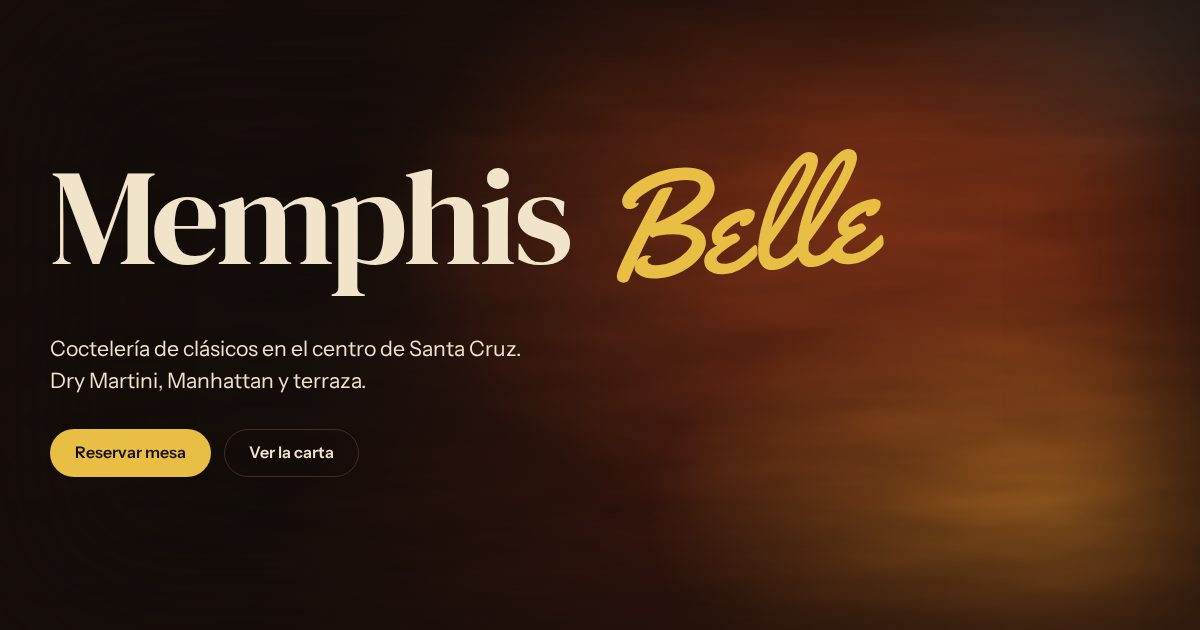
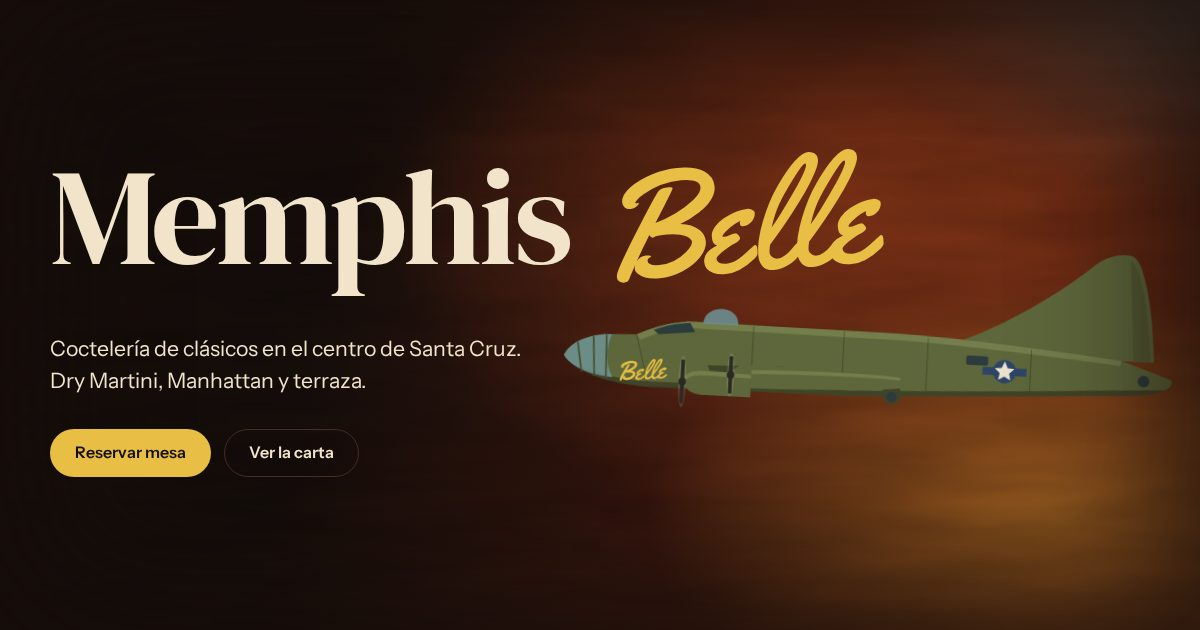
Bombardero B-17 animado en el fondo de la portada
Ilustración propia en SVG de un B-17 verde oliva, como el del mural, con
"Belle" en el morro (el mismo trazado que el logotipo), volando por el
cielo marrón de la portada. Las hélices giran (180 ms, linear) y el avión
flota despacio (7 s, curva senoidal); solo transform, en animaciones CSS.
Con "reducir movimiento" queda quieto. En el móvil vuela por debajo de los
botones para no tapar el texto.

Claude-Session: https://claude.ai/code/session_015FWVJHTK1DFuU4oBGvgKEP

Changed region(s): [[0.4625, 0.3921, 0.9867, 0.6333]]

diff --git a/src/views/bombardero.js b/src/views/bombardero.js
@@ -1,0 +1,77 @@
+import { readFileSync } from 'node:fs';
+
+// Ilustración del bombardero (un B-17 de los años 40, como el del mural del local) para el fondo de la
+// portada. Dibujo propio en SVG, de perfil y mirando hacia el texto. Va en línea en el HTML para que
+// el CSS pueda animar las hélices y el vuelo (public/css/site.css → "Bombardero").
+// El nombre del morro es el mismo trazado que el logotipo (public/img/logo-belle.svg).
+
+const logo = readFileSync(new URL('../../public/img/logo-belle.svg', import.meta.url), 'utf8');
+const [, logoX, logoY, logoW] = /viewBox="(-?\d+) (-?\d+) (\d+) (\d+)"/.exec(logo).map(Number);
+const logoPath = /<path[^>]* d="([^"]+)"/.exec(logo)[1];
+const BELLE_ANCHO = 74; // ancho del nombre pintado en el morro
+const belleEscala = BELLE_ANCHO / logoW;
+
+// Hélice vista de canto: un disco translúcido y dos palas que "giran" (ver .pala en el CSS).
+const helice = (x, y, r) => `<g class="helice" transform="translate(${x} ${y})">
+      <ellipse class="helice-disco" rx="6" ry="${r}"/>
+      <rect class="pala" x="-2.5" y="${-r}" width="5" height="${r * 2}" rx="2.5"/>
+      <rect class="pala pala-2" x="-2.5" y="${-r}" width="5" height="${r * 2}" rx="2.5"/>
+      <circle class="buje" r="6"/>
+    </g>`;
+
+export const BOMBARDERO = `<div class="bombardero" aria-hidden="true">
+  <svg class="bombardero-svg" viewBox="0 0 1000 420" focusable="false">
+    <g class="bombardero-vuelo">
+      <!-- Estabilizador horizontal y ala del lado lejano, más oscuros -->
+      <path class="oliva-sombra" d="M808 226 L972 222 L976 236 L820 244 Z"/>
+      <path class="oliva-sombra" d="M372 226 L512 222 L520 232 L380 236 Z"/>
+
+      <!-- Deriva (cola alta del B-17) -->
+      <path class="oliva" d="M640 182 C720 150 800 96 852 50 C872 33 900 28 912 36 C926 46 938 96 944 140 L950 196 L700 198 Z"/>
+      <path class="timon" d="M906 40 C920 50 932 98 938 142 L944 196 L918 196 L912 120 Z"/>
+
+      <!-- Fuselaje -->
+      <path class="oliva" d="M40 232 C46 214 70 200 104 196 L150 194 C170 184 196 174 228 170 L560 172 C640 174 760 182 900 196 L978 222 C980 230 976 236 966 238 L900 242 C760 250 620 258 480 264 L170 266 C110 266 60 258 40 232 Z"/>
+      <!-- Luz de arriba y sombra de abajo -->
+      <path class="oliva-luz" d="M150 194 C170 184 196 174 228 170 L560 172 C640 174 760 182 900 196 L898 204 C760 192 640 184 560 182 L232 180 C200 184 176 192 156 202 Z"/>
+      <path class="oliva-sombra" d="M60 248 C110 262 150 266 170 266 L480 264 C620 258 760 250 900 242 L966 238 C960 246 930 248 900 250 C760 258 620 266 480 272 L170 274 C120 272 80 262 60 248 Z"/>
+
+      <!-- Morro acristalado y cabina -->
+      <path class="cristal" d="M40 232 C46 214 70 200 104 196 L112 196 C104 214 104 244 116 262 C80 260 52 250 40 232 Z"/>
+      <path class="marco" d="M60 210 L68 256 M84 200 L88 262 M104 196 L106 264"/>
+      <path class="cristal-oscuro" d="M176 186 C192 178 212 174 232 172 L240 186 L184 192 Z"/>
+      <path class="cristal" d="M252 172 C252 156 266 148 280 148 C294 148 306 156 306 172 Z"/>
+      <rect class="cristal-oscuro" x="660" y="200" width="34" height="14" rx="3"/>
+      <circle class="cristal-oscuro" cx="935" cy="226" r="9"/>
+
+      <!-- Líneas de paneles -->
+      <path class="paneles" d="M330 172 L330 266 M470 172 L470 264 M600 176 L600 258 M760 186 L760 250 M150 194 L170 266"/>
+
+      <!-- Torreta inferior -->
+      <circle class="oliva-sombra" cx="548" cy="266" r="15"/>
+      <circle class="cristal-oscuro" cx="548" cy="270" r="8"/>
+
+      <!-- Insignia de la época: estrella blanca sobre círculo azul, con barras -->
+      <g transform="translate(720 222)">
+        <rect class="insignia-barra" x="-34" y="-6" width="68" height="12"/>
+        <circle class="insignia-azul" r="18"/>
+        <path class="insignia-blanca" d="M0 -16 L4.7 -5.5 L15.2 -4.9 L7.3 2.4 L9.4 13 L0 7.4 L-9.4 13 L-7.3 2.4 L-15.2 -4.9 L-4.7 -5.5 Z"/>
+      </g>
+
+      <!-- "Belle" pintado en el morro -->
+      <g transform="translate(124 236) rotate(-6) scale(${belleEscala.toFixed(5)}) translate(${-logoX} ${-logoY})">
+        <path class="belle-morro" d="${logoPath}"/>
+      </g>
+
+      <!-- Motores y ala del lado cercano -->
+      <path class="oliva-sombra" d="M262 236 L380 232 L384 252 L270 256 Z"/>
+      <path class="oliva" d="M300 248 C300 238 312 232 326 232 L392 232 L392 266 L326 266 C312 266 300 260 300 248 Z"/>
+      <path class="oliva" d="M226 262 C226 250 240 244 256 244 L330 246 L330 282 L256 282 C240 282 226 274 226 262 Z"/>
+      <path class="oliva-luz" d="M228 256 C232 248 242 245 256 245 L330 247 L330 253 L256 252 C244 252 236 254 230 260 Z"/>
+      <path class="oliva" d="M330 240 C420 236 520 236 560 240 L560 256 C520 262 420 266 330 268 Z"/>
+      <path class="oliva-luz" d="M330 240 C420 236 520 236 560 240 L560 244 C520 242 420 242 330 246 Z"/>
+      ${helice(298, 249, 34)}
+      ${helice(224, 263, 40)}
+    </g>
+  </svg>
+</div>`;

diff --git a/public/css/site.css b/public/css/site.css
@@ -159,6 +159,54 @@ ul { margin: 0; padding: 0; list-style: none; }
   content: ""; position: absolute; inset: 0; z-index: -1; pointer-events: none;
   box-shadow: inset 0 0 140px 30px rgba(22, 14, 11, .85);
 }
+/* ---------- Bombardero: ilustración de fondo de la portada (src/views/bombardero.js) ----------
+   Movimiento decorativo, visto una vez por visita: las hélices giran (movimiento constante: linear) y
+   el avión flota despacio (ida y vuelta: curva senoidal de easings.co). Solo transform, en animaciones
+   CSS que van fuera del hilo principal. Con "reducir movimiento", el avión queda quieto. */
+.bombardero {
+  position: absolute; z-index: -1; pointer-events: none;
+  right: 1%; top: 56%; width: min(54vw, 760px);
+  transform: translateY(-50%);
+}
+.bombardero-svg { width: 100%; height: auto; overflow: visible; }
+.bombardero-vuelo { transform-box: fill-box; transform-origin: 50% 50%; }
+/* Colores del mural: verde oliva del fuselaje, cristales del azul del motor, nombre en amarillo.
+   Algo apagados para que el avión se funda con el cielo marrón y no compita con el título. */
+.bombardero .oliva { fill: #5E673B; }
+.bombardero .oliva-luz { fill: #747D4C; }
+.bombardero .oliva-sombra { fill: #3F4428; }
+.bombardero .timon { fill: #545C34; }
+.bombardero .cristal { fill: #6F9396; opacity: .85; }
+.bombardero .cristal-oscuro { fill: #2C3B3D; }
+.bombardero .marco { fill: none; stroke: #454B2B; stroke-width: 2.5; }
+.bombardero .paneles { fill: none; stroke: rgba(30, 24, 14, .35); stroke-width: 1.5; }
+.bombardero .insignia-azul, .bombardero .insignia-barra { fill: #2F4566; }
+.bombardero .insignia-blanca { fill: #E9E2D0; }
+.bombardero .belle-morro { fill: var(--mostaza); }
+.bombardero .helice-disco { fill: rgba(233, 226, 208, .14); }
+.bombardero .pala { fill: #2A2A22; transform-box: fill-box; transform-origin: 50% 50%; }
+.bombardero .pala-2 { opacity: .6; }
+.bombardero .buje { fill: #2A2A22; }
+@media (prefers-reduced-motion: no-preference) {
+  .bombardero-vuelo { animation: flotar 7s cubic-bezier(0.37, 0, 0.63, 1) infinite alternate; }
+  .bombardero .pala { animation: girar 180ms linear infinite; }
+  .bombardero .pala-2 { animation-delay: -90ms; }
+  @keyframes flotar {
+    from { transform: translate(0, 6px) rotate(3deg); }
+    to { transform: translate(-14px, -8px) rotate(4.5deg); }
+  }
+  /* Una pala vista de canto: al girar, su altura aparente va de entera a nada y vuelta. */
+  @keyframes girar {
+    0% { transform: scaleY(1); }
+    50% { transform: scaleY(-1); }
+    100% { transform: scaleY(1); }
+  }
+}
+@media (prefers-reduced-motion: reduce) {
+  .bombardero-vuelo { transform: rotate(3.5deg); }
+  .bombardero .pala-2 { display: none; }
+}
+
 .hero-titulo {
   font-family: var(--serif);
   font-size: clamp(3.6rem, 13vw, 8.5rem);
@@ -327,7 +375,9 @@ footer a { text-decoration: none; transition: color .15s ease; }
   section { padding: 4rem 0; }
   .nav ul, .btn-nav { display: none; } /* reservar y llamar van en la barra fija de abajo */
   .hero { min-height: auto; padding: 4rem 0 4.5rem; }
-  .hero { background-position: 0 0, 0 0, 0 0, 0 0; }
+  .hero { padding-bottom: 13rem; }
+  /* En el móvil, el avión vuela por debajo de los botones, sin tapar el texto. */
+  .bombardero { top: auto; bottom: 1.5rem; right: -45%; width: 120vw; transform: none; }
   .barra-movil {
     display: grid; grid-template-columns: 1fr 1.6fr; gap: .6rem;
     position: fixed; inset: auto 0 0 0; z-index: 10;

diff --git a/test/static.test.js b/test/static.test.js
@@ -211,6 +211,17 @@ describe('portada y móvil', () => {
     assert.match(css, /env\(safe-area-inset-bottom/);
   });
 
+  test('el bombardero de la portada es decorativo y solo se mueve si el sistema lo permite', () => {
+    const hero = index.slice(index.indexOf('id="inicio"'), index.indexOf('id="estrella"'));
+    assert.match(hero, /<div class="bombardero" aria-hidden="true">/);
+    assert.match(hero, /class="belle-morro"/); // el nombre del morro es el logotipo
+    const animaciones = /@media \(prefers-reduced-motion: no-preference\) \{\s*\.bombardero-vuelo \{ animation: flotar/;
+    assert.match(css, animaciones);
+    // Fuera de ese bloque no hay ninguna animación del avión.
+    const fuera = css.replace(/@media \(prefers-reduced-motion: no-preference\) \{[\s\S]*?\n\}/g, '');
+    assert.doesNotMatch(fuera, /animation: (flotar|girar)/);
+  });
+
   test('las animaciones respetan "reducir movimiento" y no se usa transition: all', () => {
     assert.match(css, /@media \(prefers-reduced-motion: no-preference\) \{\s*\.hero/);
     assert.doesNotMatch(css, /transition:\s*all/);

diff --git a/src/views/landing.js b/src/views/landing.js
@@ -1,4 +1,5 @@
 import { DIAS, NOMBRES } from '../../public/js/horario.js';
+import { BOMBARDERO } from './bombardero.js';
 import { esc, escPhone, instagramUrl, layout, whatsappUrl } from './html.js';
 import { structuredData } from './schema.js';
 
@@ -20,6 +21,7 @@ const estadoAhora = (site, extraClass = '') => `<p class="estado ${extraClass}" 
 function hero(site) {
   const { hero: h } = site;
   return `<section class="hero" id="inicio">
+  ${BOMBARDERO}
   <div class="wrap">
     <h1 class="hero-titulo">Memphis <span class="belle">Belle</span></h1>
     <p class="hero-lead">${esc(h.lead)}</p>

diff --git a/docs/DISENO.md b/docs/DISENO.md
@@ -6,7 +6,7 @@ Notas de diseño para mantener la web coherente en futuros cambios.
 
 La web sale del **mural del local**: la parte frontal del bombardero Memphis Belle pintada en la pared, sobre un cielo de atardecer (óxido y ámbar que se apagan en hollín), con **"Belle" rotulado a mano en amarillo**. Ese "Belle" es el logotipo del bar.
 
-- **Portada**: recrea el cielo del mural con degradados y una textura de pintura (sin dibujar el avión: cuando haya fotos buenas, la del mural irá en la portada).
+- **Portada**: recrea el cielo del mural con degradados y una textura de pintura, y por él vuela un **B-17 verde oliva** con "Belle" en el morro (`src/views/bombardero.js`, dibujo propio en SVG). Las hélices giran y el avión flota despacio; con "reducir movimiento" queda quieto. Es una ilustración plana, no una copia del mural: cuando haya una foto buena del mural, se puede valorar sustituirla o combinarla.
 - **Logotipo**: "Memphis" en serif + "Belle" manuscrito en amarillo e inclinado, como en la pared. `public/img/logo-belle.svg` y el favicon (la "B") están trazados desde la letra Yellowtail, así que se ven igual aunque no cargue la tipografía. Cuando haya una foto de cerca de las letras del mural, se puede calcar el trazo original y sustituir el SVG.
 - **Carta**: un papel impreso sobre la barra, el único elemento claro de la página.
 
@@ -34,6 +34,7 @@ Tipografía: **DM Serif Display** (títulos, "Memphis", nombres de cócteles), *
 ## Movimiento (skills de Emil Kowalski)
 
 - Portada: entrada escalonada de 600 ms una sola vez al cargar (60 ms entre elementos). Con "reducir movimiento" no se mueve nada.
+- Bombardero: hélices con giro continuo (180 ms, linear) y vuelo de ida y vuelta (7 s, curva senoidal `cubic-bezier(0.37, 0, 0.63, 1)` de easings.co). Solo `transform`, en animaciones CSS fuera del hilo principal. Con "reducir movimiento", quieto.
 - Pestañas de la carta: fundido de 180 ms. Es una acción frecuente, así que es corto y sin desplazamiento.
 - Botones: `scale(0.97)` al pulsar. Los `:hover` solo con ratón (`(hover: hover) and (pointer: fine)`).
 - Nada se anima al hacer scroll.
@@ -50,7 +51,7 @@ Tipografía: **DM Serif Display** (títulos, "Memphis", nombres de cócteles), *
 - Separadores con punto medio ("A · B · C"), flechas "→" en botones.
 - Fotos de banco de cócteles genéricos: mejor ninguna foto que una que no es del local.
 - Más de un color de acción: el amarillo es solo para Reservar mesa y el logotipo.
-- Dibujar el avión a mano: se usará la foto real del mural.
+- Más ilustraciones dibujadas a mano: el bombardero de la portada es la única.
 
 ## Pendiente
 
